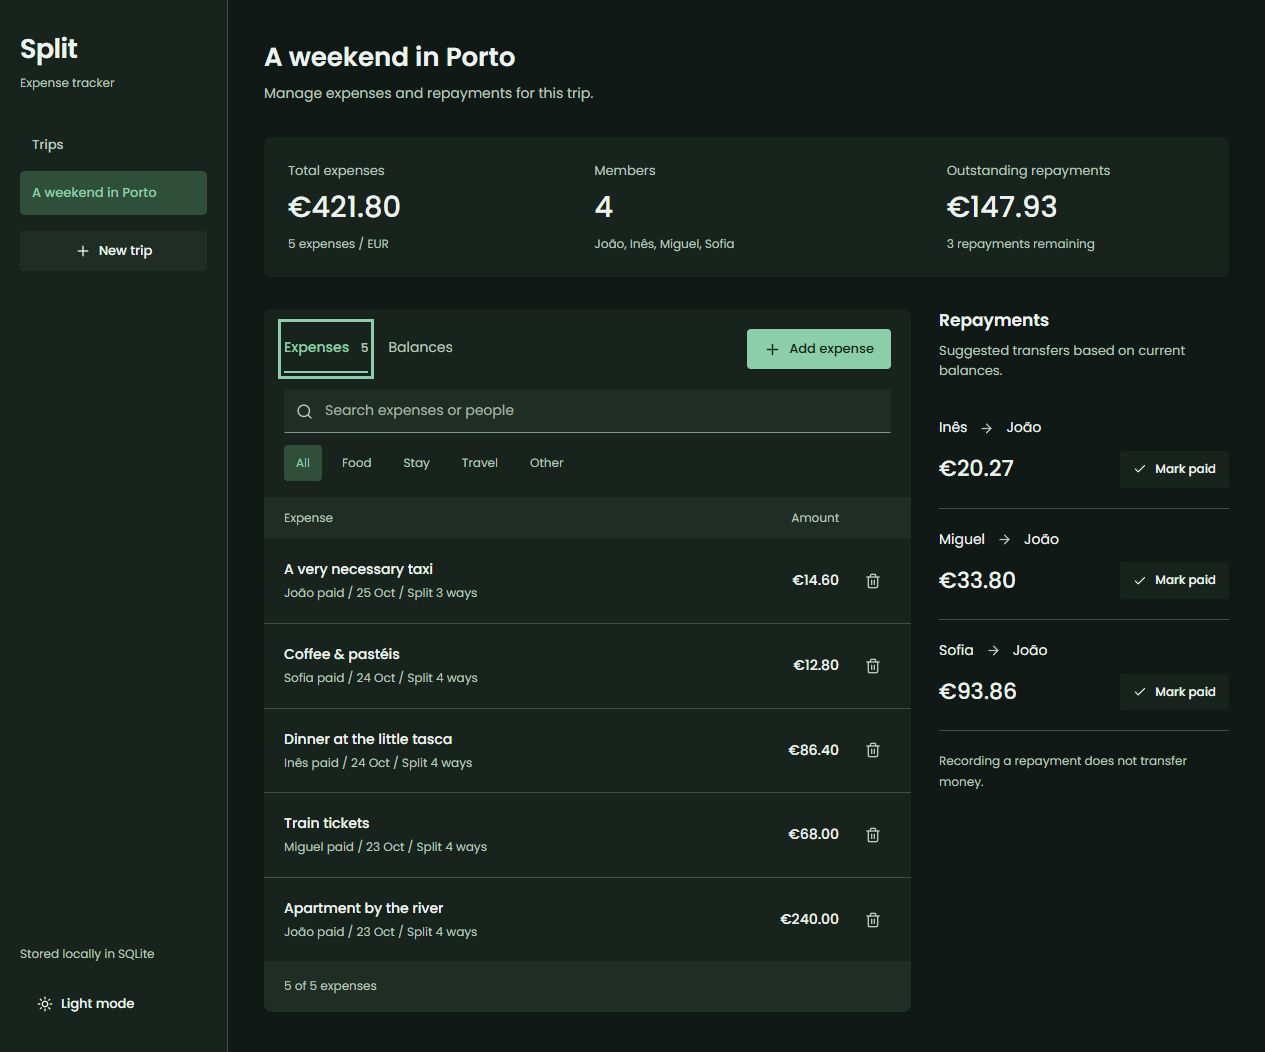
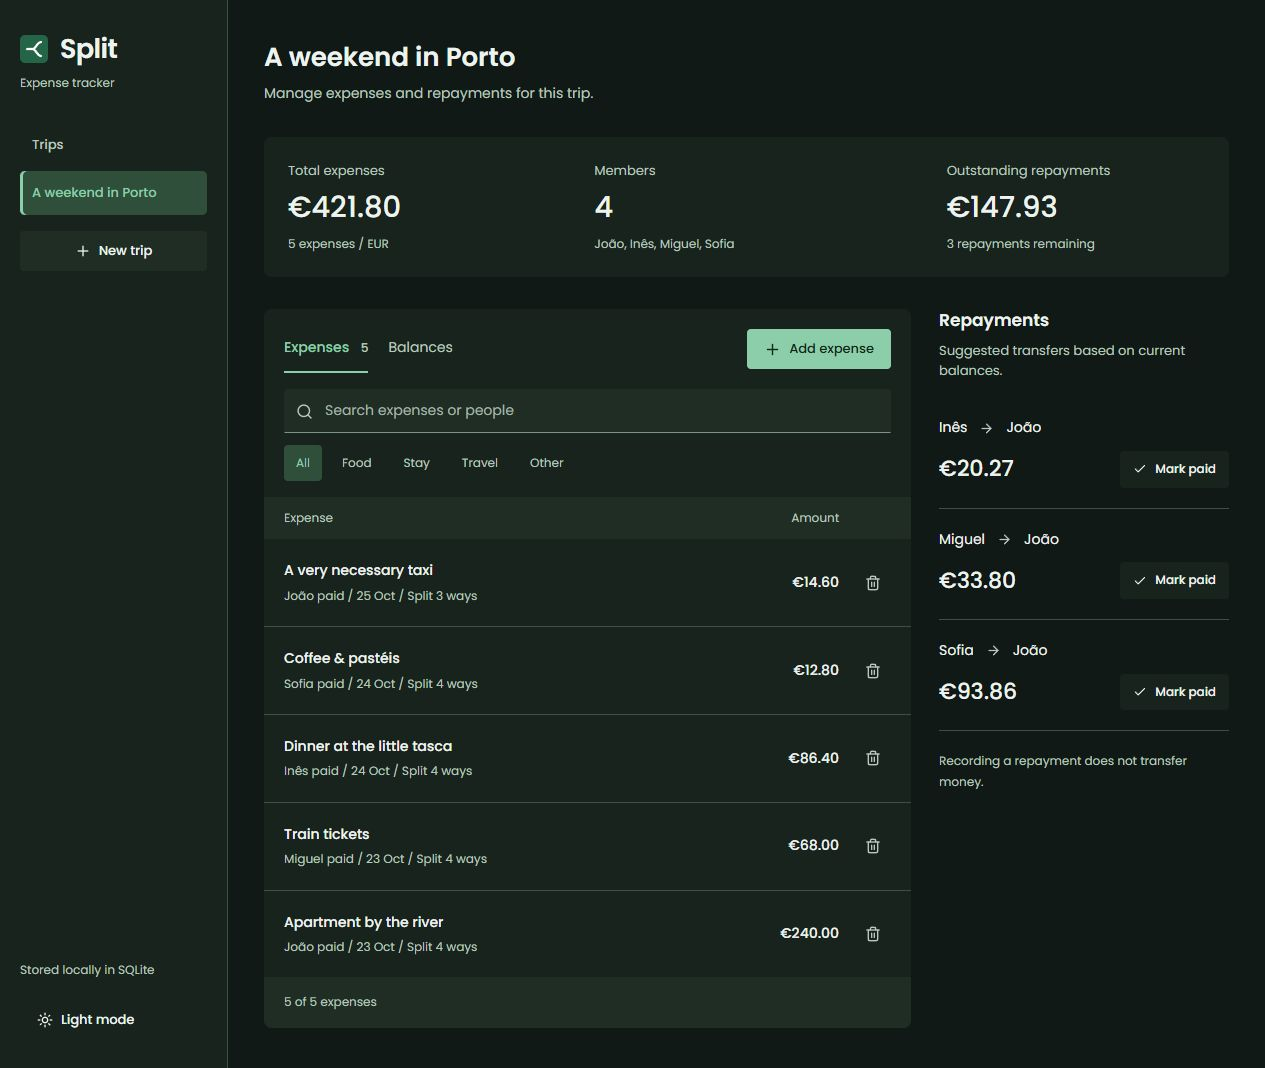
Polish README branding and theme-aware screenshots

diff --git a/README.md b/README.md
@@ -1,8 +1,22 @@
-# Split
+<h1>
+  <picture>
+    <source media="(prefers-color-scheme: dark)" srcset="docs/logo-dark.svg">
+    <img src="docs/logo.svg" alt="Split" width="280" height="72">
+  </picture>
+</h1>
 
 Shared expense tracking for trips and groups. Add expenses, choose who paid, and see how much each person owes.
 
-![Split](docs/desktop.jpg)
+<picture>
+  <source media="(prefers-color-scheme: dark)" srcset="docs/dark.jpg">
+  <img src="docs/desktop.jpg" alt="Split desktop interface" width="1200">
+</picture>
+
+<details>
+  <summary>Mobile view</summary>
+  <br>
+  <img src="docs/mobile.jpg" alt="Split mobile interface" width="320">
+</details>
 
 ## Features
 
@@ -35,4 +49,4 @@ npm start
 
 `npm start` serves the production build and API on port 3001. Data is stored in `data/split.db`.
 
-Built by [João Matos](https://github.com/jpndmatos). MIT license.
+Built by [João Matos](https://github.com/jpndmatos). [MIT license](LICENSE).
